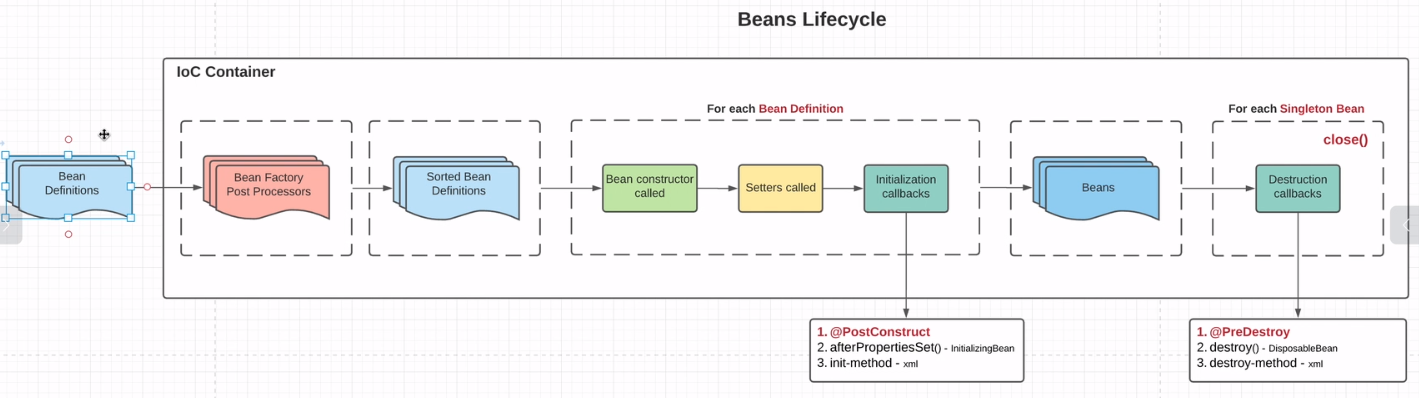
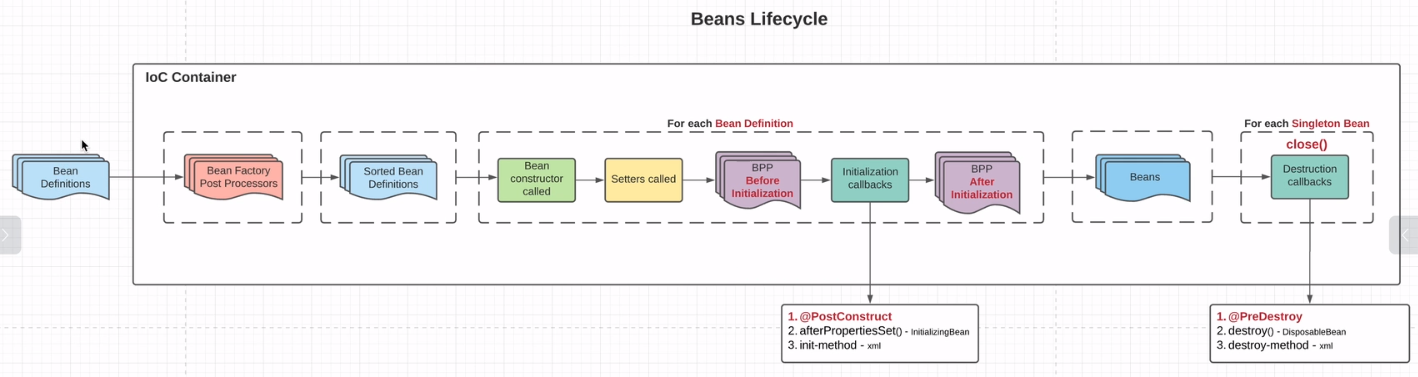
Конфигурация через аннотации. Bean post processors. Proxy (custom bean post processors)

diff --git a/src/main/java/com/msp/spring/bpp/TransactionBeanPostProcessors.java b/src/main/java/com/msp/spring/bpp/TransactionBeanPostProcessors.java
@@ -1,0 +1,64 @@
+package com.msp.spring.bpp;
+
+import org.springframework.beans.BeansException;
+import org.springframework.beans.factory.config.BeanPostProcessor;
+
+import java.lang.reflect.Proxy;
+import java.util.HashMap;
+import java.util.Map;
+
+public class TransactionBeanPostProcessors implements BeanPostProcessor {
+
+    private final Map<String, Class<?>> transactionsBeans = new HashMap<>();
+
+    @Override
+    public Object postProcessBeforeInitialization(Object bean, String beanName) throws BeansException {
+/*
+        if (bean.getClass().isAnnotationPresent(Transaction.class)) {
+            //CompanyRepository.class превращается в какой-то $ProxyXX.class и
+            // доступ по имени или типу "com.msp.spring.database.repository.CompanyRepository" больше не работает
+            // Поэтому в этом случае на этапе Initializing callbacks жизненного цикла не будет вызова метода CompanyRepository.init() помеченного @PostConstruct
+            // Таким образом, создание прокси объекта должно быть в методе postProcessAfterInitialization
+            return Proxy.newProxyInstance(bean.getClass().getClassLoader(), bean.getClass().getInterfaces(),
+                    (proxy, method, args) ->  {
+                        try {
+                            System.out.println("Open transaction");
+                            return method.invoke(args);
+                        } finally {
+                            System.out.println("Close transaction");
+                        }
+                    });
+        }
+*/
+
+        if (bean.getClass().isAnnotationPresent(Transaction.class)) {
+            transactionsBeans.put(beanName, bean.getClass());
+        }
+
+        return bean;
+    }
+
+    @Override
+    public Object postProcessAfterInitialization(Object bean, String beanName) throws BeansException {
+        // Если есть несколько bpp, делающих прокси, то сюда в качестве bean может прийти уже другой прокси,
+        // у которого нет аннотации Transaction. Поэтому нужно хранить nap по ключу beanName первоначальных классов.
+        // Это map возможно сделать только в postProcessBeforeInitialization, поскольку по принятому соглашению
+        // в нем не может быть прокси и при первом заходе в него bean принимает оригинальный класс
+
+        Class<?> originalClass = transactionsBeans.get(beanName);
+
+        if (originalClass != null /*bean.getClass().isAnnotationPresent(Transaction.class)*/) {
+            return Proxy.newProxyInstance(originalClass.getClassLoader(), originalClass.getInterfaces(),
+                    (proxy, method, args) ->  {
+                        try {
+                            System.out.println("Open transaction");
+                            return method.invoke(bean, args);
+                        } finally {
+                            System.out.println("Close transaction");
+                        }
+                    });
+        }
+
+        return bean;
+    }
+}

diff --git a/src/main/java/com/msp/spring/database/pool/ConnectionPool.java b/src/main/java/com/msp/spring/database/pool/ConnectionPool.java
@@ -3,6 +3,8 @@ package com.msp.spring.database.pool;
 import org.springframework.beans.factory.DisposableBean;
 import org.springframework.beans.factory.InitializingBean;
 
+import javax.annotation.PostConstruct;
+import javax.annotation.PreDestroy;
 import java.util.List;
 import java.util.Map;
 
@@ -43,7 +45,11 @@ public class ConnectionPool implements InitializingBean, DisposableBean {
      * Initialization callback
      * Первый способ через метод - вызывается при инициализации бина.
      * Может быть приватным, т.е. вызывается через рефлекшен
+     *
+     * Предпочтительный способ использование аннотации
+     * Из трех способов обрабатывается первым
      */
+    @PostConstruct
     private void init() {
         System.out.println("ConnectionPool init() method called.");
     }
@@ -62,7 +68,11 @@ public class ConnectionPool implements InitializingBean, DisposableBean {
      * вызывается только при явном закрытии контекста и только у singleton-бинов(тк хранятся в контексте).
      * Первый способ через метод.
      * Может быть приватным, т.е. вызывается через рефлекшен
+     *
+     * Предпочтительный способ использование аннотации.
+     * Из трех способов обрабатывается первым
      */
+    @PreDestroy
     private void destroyMethod() {
         System.out.println("ConnectionPool destroyMethod() method called.");
     }

diff --git a/src/main/java/com/msp/spring/bpp/InjectBeanPostProcessor.java b/src/main/java/com/msp/spring/bpp/InjectBeanPostProcessor.java
@@ -1,0 +1,41 @@
+package com.msp.spring.bpp;
+
+import org.springframework.beans.BeansException;
+import org.springframework.beans.factory.config.BeanPostProcessor;
+import org.springframework.context.ApplicationContext;
+import org.springframework.context.ApplicationContextAware;
+import org.springframework.util.ReflectionUtils;
+
+import java.util.Arrays;
+
+public class InjectBeanPostProcessor implements BeanPostProcessor, ApplicationContextAware {
+
+    private ApplicationContext applicationContext;
+
+    @Override
+    public Object postProcessBeforeInitialization(Object bean, String beanName) throws BeansException {
+        Arrays.stream(bean.getClass().getDeclaredFields())
+                .filter(field -> field.isAnnotationPresent(InjectBean.class))
+                .forEach(field -> {
+                    Object contextBean = applicationContext.getBean(field.getType());
+                    ReflectionUtils.makeAccessible(field);
+                    ReflectionUtils.setField(field, bean, contextBean);
+/*
+                    field.setAccessible(true);
+                    try {
+                        field.set(bean, contextBean);
+                    } catch (IllegalAccessException e) {
+                        e.printStackTrace();
+                    }
+*/
+                });
+        //в postProcessBeforeInitialization следует возвращать оригинальный бин, а не обертку.
+        //обертку детать в postProcessAfterInitialization
+        return bean;
+    }
+
+    @Override
+    public void setApplicationContext(ApplicationContext applicationContext) throws BeansException {
+        this.applicationContext = applicationContext;
+    }
+}

diff --git a/src/main/java/com/msp/spring/database/repository/CompanyRepository.java b/src/main/java/com/msp/spring/database/repository/CompanyRepository.java
@@ -1,28 +1,42 @@
 package com.msp.spring.database.repository;
 
+import com.msp.spring.bpp.Auditing;
+import com.msp.spring.bpp.InjectBean;
+import com.msp.spring.bpp.Transaction;
+import com.msp.spring.database.entity.Company;
 import com.msp.spring.database.pool.ConnectionPool;
 
-public class CompanyRepository {
+import javax.annotation.PostConstruct;
+import java.util.Optional;
 
-    private final ConnectionPool connectionPool;
+@Transaction
+@Auditing
+public class CompanyRepository implements CrudRepository<Integer, Company> {
 
-    public CompanyRepository(ConnectionPool connectionPool) {
-        this.connectionPool = connectionPool;
+    // инициализация параметра через обработку аннотации посредством bean postprocessor (InjectBeanPostProcessor)
+    @InjectBean
+    private ConnectionPool connectionPool;
+
+    @PostConstruct
+    private void init() {
+        System.out.println("CompanyRepository init");
     }
 
-    /**
-     * фабричный метод
-     * @param connectionPool
-     * @return
-     */
-    public static CompanyRepository of(ConnectionPool connectionPool) {
-        System.out.println("execute CompanyRepository.of(...)");
-        return new CompanyRepository(connectionPool);
-    }
-
+/*
     @Override
     public String toString() {
         return "CompanyRepository class initialized.";
     }
+*/
 
+    @Override
+    public Optional<Company> findById(Integer id) {
+        System.out.println("Company findById " + id);
+        return Optional.of(new Company(10));
+    }
+
+    @Override
+    public void delete(Company entity) {
+        System.out.println("delete company " + entity);
+    }
 }

diff --git a/src/main/java/com/msp/spring/bpp/AuditingBeanPostProcessors.java b/src/main/java/com/msp/spring/bpp/AuditingBeanPostProcessors.java
@@ -1,0 +1,42 @@
+package com.msp.spring.bpp;
+
+import org.springframework.beans.BeansException;
+import org.springframework.beans.factory.config.BeanPostProcessor;
+
+import java.lang.reflect.Proxy;
+import java.util.HashMap;
+import java.util.Map;
+
+public class AuditingBeanPostProcessors implements BeanPostProcessor {
+
+    private final Map<String, Class<?>> auditingBeans = new HashMap<>();
+
+    @Override
+    public Object postProcessBeforeInitialization(Object bean, String beanName) throws BeansException {
+        if (bean.getClass().isAnnotationPresent(Auditing.class)) {
+            auditingBeans.put(beanName, bean.getClass());
+        }
+        return bean;
+    }
+
+    @Override
+    public Object postProcessAfterInitialization(Object bean, String beanName) throws BeansException {
+        // bean уже является прокси после TransactionBeanPostProcessors
+        Class<?> originalClass = auditingBeans.get(beanName);
+
+        if (originalClass != null) {
+            return Proxy.newProxyInstance(originalClass.getClassLoader(), originalClass.getInterfaces(),
+                    (proxy, method, args) ->  {
+                        long nanoTime = System.nanoTime();
+                        try {
+                            System.out.println("Start auditing: " + nanoTime);
+                            return method.invoke(bean, args);
+                        } finally {
+                            System.out.println("Stop auditing: " + (System.nanoTime() - nanoTime));
+                        }
+                    });
+        }
+
+        return bean;
+    }
+}

diff --git a/src/main/java/com/msp/spring/ApplicationContextRunner.java b/src/main/java/com/msp/spring/ApplicationContextRunner.java
@@ -3,6 +3,7 @@ package com.msp.spring;
 import com.msp.spring.bfpp.LogBeanFactoryPostProcessor;
 import com.msp.spring.database.pool.ConnectionPool;
 import com.msp.spring.database.repository.CompanyRepository;
+import com.msp.spring.database.repository.CrudRepository;
 import org.springframework.beans.factory.config.BeanFactoryPostProcessor;
 import org.springframework.context.support.ClassPathXmlApplicationContext;
 
@@ -38,8 +39,13 @@ public class ApplicationContextRunner {
         ConnectionPool connectionPool2 = context.getBean("pool2", ConnectionPool.class);
         System.out.println(connectionPool2);
 
-        CompanyRepository companyRepository = context.getBean("companyRepository", CompanyRepository.class);
-        System.out.println(companyRepository);
+        // После созадния в TransactionBeanPostProcessors прокси на CompanyRepository ошибка, тк такого типа уже нет в контексте:
+        // Bean named 'companyRepository' is expected to be of type 'com.msp.spring.database.repository.CompanyRepository' but was actually of type 'com.sun.proxy.$Proxy10'
+        // CompanyRepository companyRepository = context.getBean("companyRepository", CompanyRepository.class);
+
+        // используется базовый интерфейс
+        CrudRepository companyRepository = context.getBean("companyRepository", CrudRepository.class);
+        System.out.println(companyRepository.findById(11));
 
         context.close();
     }

diff --git a/src/main/java/com/msp/spring/service/UserService.java b/src/main/java/com/msp/spring/service/UserService.java
@@ -13,7 +13,7 @@ public class UserService {
         // UserService управляет созданием XXXRepository и ConnectionPool, что плохо
         // Также могут быть другие классы, требующие эти объекты
         userRepository = new UserRepository(new ConnectionPool());
-        companyRepository = new CompanyRepository(new ConnectionPool());
+        companyRepository = null; //new CompanyRepository(new ConnectionPool());
     }
 
     public UserService(UserRepository userRepository, CompanyRepository companyRepository) {

diff --git a/src/main/java/com/msp/spring/ioc/Container.java b/src/main/java/com/msp/spring/ioc/Container.java
@@ -15,7 +15,7 @@ public class Container {
     static {
         container.put(ConnectionPool.class, new ConnectionPool());
         container.put(UserRepository.class, new UserRepository(get(ConnectionPool.class)));
-        container.put(CompanyRepository.class, new CompanyRepository(get(ConnectionPool.class)));
+       // container.put(CompanyRepository.class, new CompanyRepository(get(ConnectionPool.class)));
         container.put(UserService.class, new UserService(get(UserRepository.class), get(CompanyRepository.class)));
     }
 

diff --git a/src/main/java/com/msp/spring/database/entity/Company.java b/src/main/java/com/msp/spring/database/entity/Company.java
@@ -1,0 +1,24 @@
+package com.msp.spring.database.entity;
+
+public class Company {
+    private int id;
+
+    public Company(int id) {
+        this.id = id;
+    }
+
+    public int getId() {
+        return id;
+    }
+
+    public void setId(int id) {
+        this.id = id;
+    }
+
+    @Override
+    public String toString() {
+        return "Company{" +
+                "id=" + id +
+                '}';
+    }
+}

diff --git a/src/main/java/com/msp/spring/bpp/InjectBean.java b/src/main/java/com/msp/spring/bpp/InjectBean.java
@@ -1,0 +1,11 @@
+package com.msp.spring.bpp;
+
+import java.lang.annotation.ElementType;
+import java.lang.annotation.Retention;
+import java.lang.annotation.RetentionPolicy;
+import java.lang.annotation.Target;
+
+@Retention(RetentionPolicy.RUNTIME)
+@Target(ElementType.FIELD)
+public @interface InjectBean {
+}

diff --git a/src/main/java/com/msp/spring/bpp/Transaction.java b/src/main/java/com/msp/spring/bpp/Transaction.java
@@ -1,0 +1,11 @@
+package com.msp.spring.bpp;
+
+import java.lang.annotation.ElementType;
+import java.lang.annotation.Retention;
+import java.lang.annotation.RetentionPolicy;
+import java.lang.annotation.Target;
+
+@Retention(RetentionPolicy.RUNTIME)
+@Target(ElementType.TYPE)
+public @interface Transaction {
+}

diff --git a/src/main/java/com/msp/spring/bpp/Auditing.java b/src/main/java/com/msp/spring/bpp/Auditing.java
@@ -1,0 +1,11 @@
+package com.msp.spring.bpp;
+
+import java.lang.annotation.ElementType;
+import java.lang.annotation.Retention;
+import java.lang.annotation.RetentionPolicy;
+import java.lang.annotation.Target;
+
+@Retention(RetentionPolicy.RUNTIME)
+@Target(ElementType.TYPE)
+public @interface Auditing {
+}
